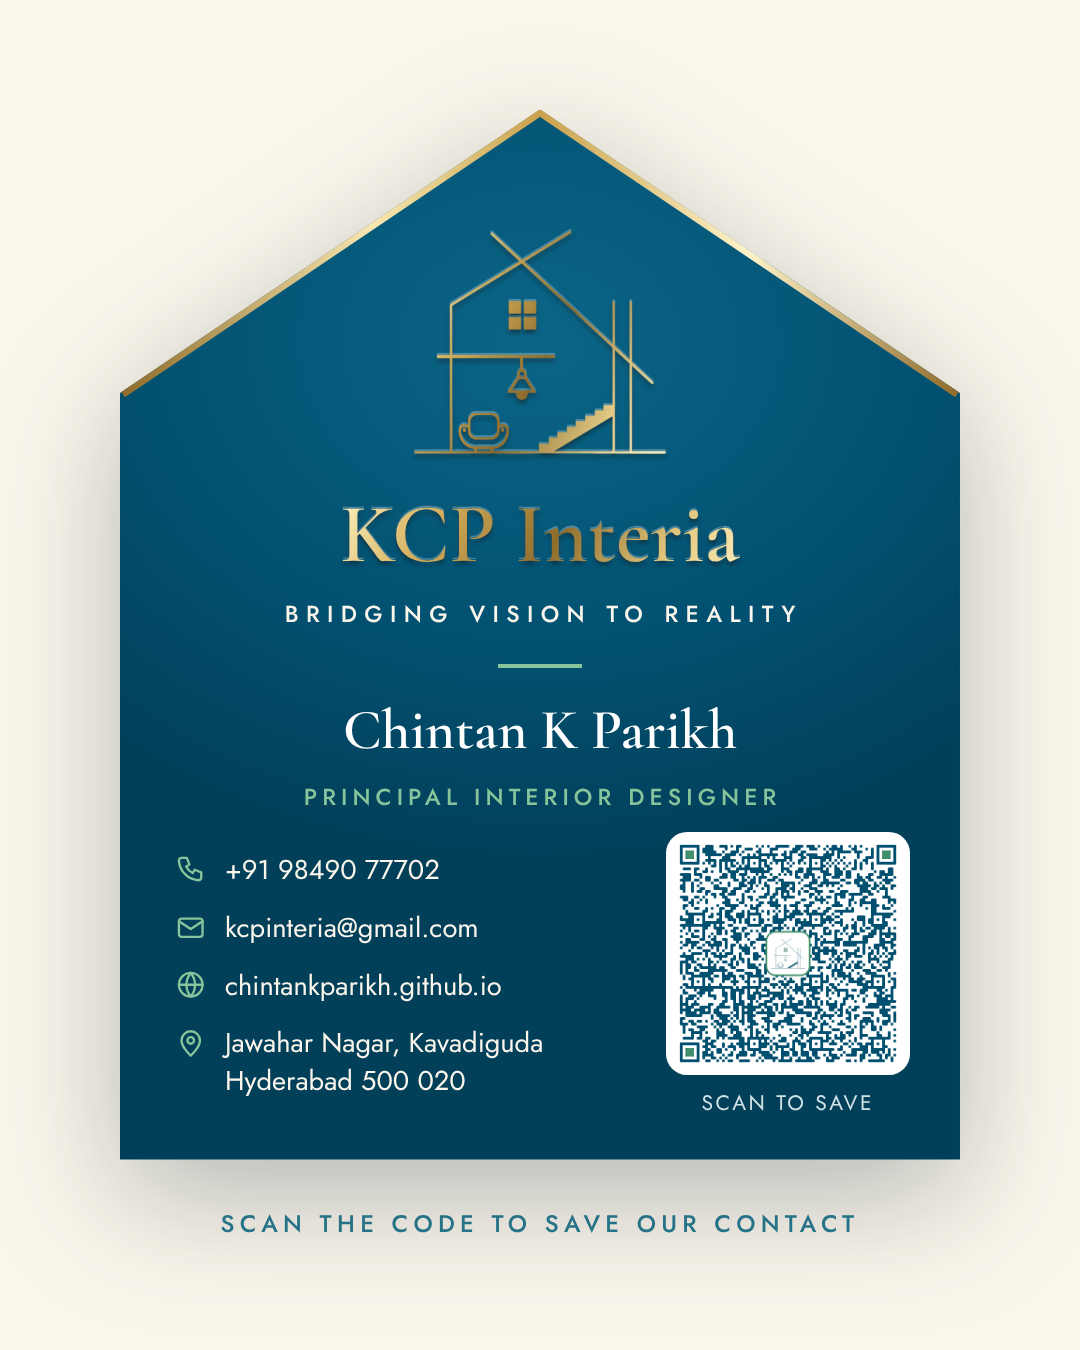
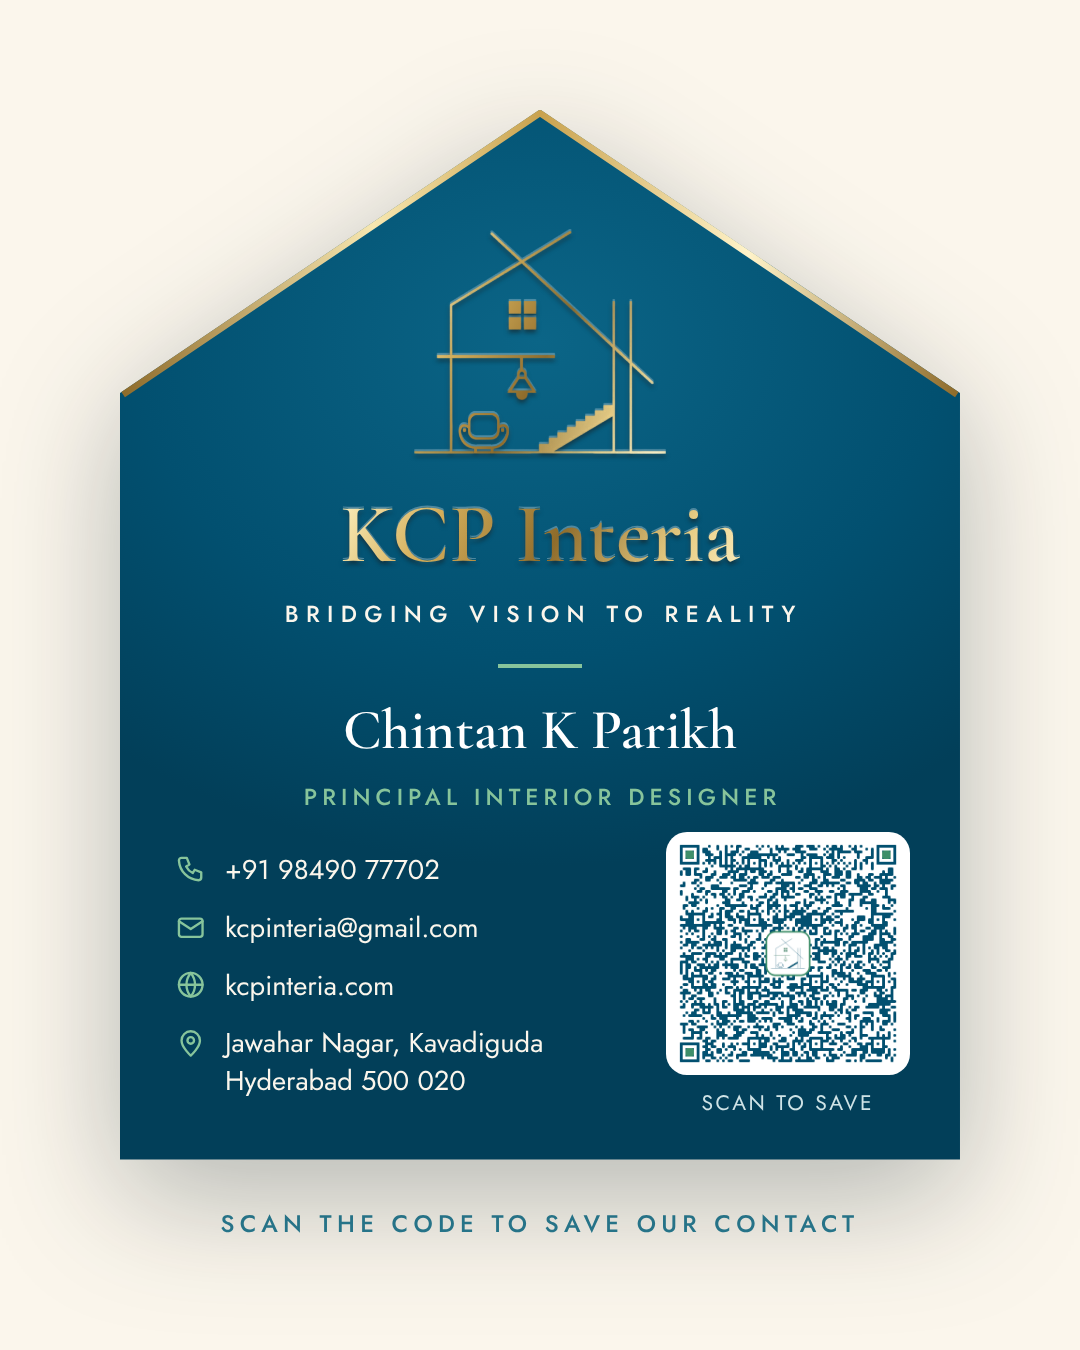
Add files via upload

Changed region(s): [[0.6111, 0.6222, 0.7639, 0.7778], [0.2139, 0.7156, 0.4583, 0.7467], [0.7944, 0.6844, 0.825, 0.7156]]

diff --git a/contact.html b/contact.html
@@ -265,7 +265,7 @@
 <div style="display: flex; flex-direction: column; gap: 9px; font-size: 13px; color: #FBF6EC">
 <div style="display: flex; align-items: center; gap: 9px"><svg aria-hidden="true" width="15" height="15" viewBox="0 0 24 24" fill="none" stroke="#87C49B" stroke-width="1.8" stroke-linecap="round" stroke-linejoin="round"><path d="M5 3h4l2 5-2.5 1.5a11 11 0 0 0 5 5L15 12l5 2v4a2 2 0 0 1-2 2A16 16 0 0 1 3 5a2 2 0 0 1 2-2z"></path></svg><span>+91 98490 77702</span></div>
 <div style="display: flex; align-items: center; gap: 9px"><svg aria-hidden="true" width="15" height="15" viewBox="0 0 24 24" fill="none" stroke="#87C49B" stroke-width="1.8" stroke-linecap="round" stroke-linejoin="round"><rect x="3" y="5" width="18" height="14" rx="2"></rect><path d="M3 7l9 6 9-6"></path></svg><span>kcpinteria@gmail.com</span></div>
-<div style="display: flex; align-items: center; gap: 9px"><svg aria-hidden="true" width="15" height="15" viewBox="0 0 24 24" fill="none" stroke="#87C49B" stroke-width="1.8" stroke-linecap="round" stroke-linejoin="round"><circle cx="12" cy="12" r="9"></circle><path d="M3 12h18M12 3a14 14 0 0 1 0 18M12 3a14 14 0 0 0 0 18"></path></svg><span>chintankparikh.github.io</span></div>
+<div style="display: flex; align-items: center; gap: 9px"><svg aria-hidden="true" width="15" height="15" viewBox="0 0 24 24" fill="none" stroke="#87C49B" stroke-width="1.8" stroke-linecap="round" stroke-linejoin="round"><circle cx="12" cy="12" r="9"></circle><path d="M3 12h18M12 3a14 14 0 0 1 0 18M12 3a14 14 0 0 0 0 18"></path></svg><span>kcpinteria.com</span></div>
 <div style="display: flex; align-items: flex-start; gap: 9px"><svg aria-hidden="true" width="15" height="15" viewBox="0 0 24 24" fill="none" stroke="#87C49B" stroke-width="1.8" stroke-linecap="round" stroke-linejoin="round" style="margin-top: 2px"><path d="M12 21s-7-6.2-7-11.5a7 7 0 0 1 14 0C19 14.8 12 21 12 21z"></path><circle cx="12" cy="9.5" r="2.5"></circle></svg><span style="line-height: 1.4">Jawahar Nagar, Kavadiguda<br>Hyderabad 500 020</span></div>
 </div>
 <div style="display: flex; flex-direction: column; align-items: center; gap: 6px">
